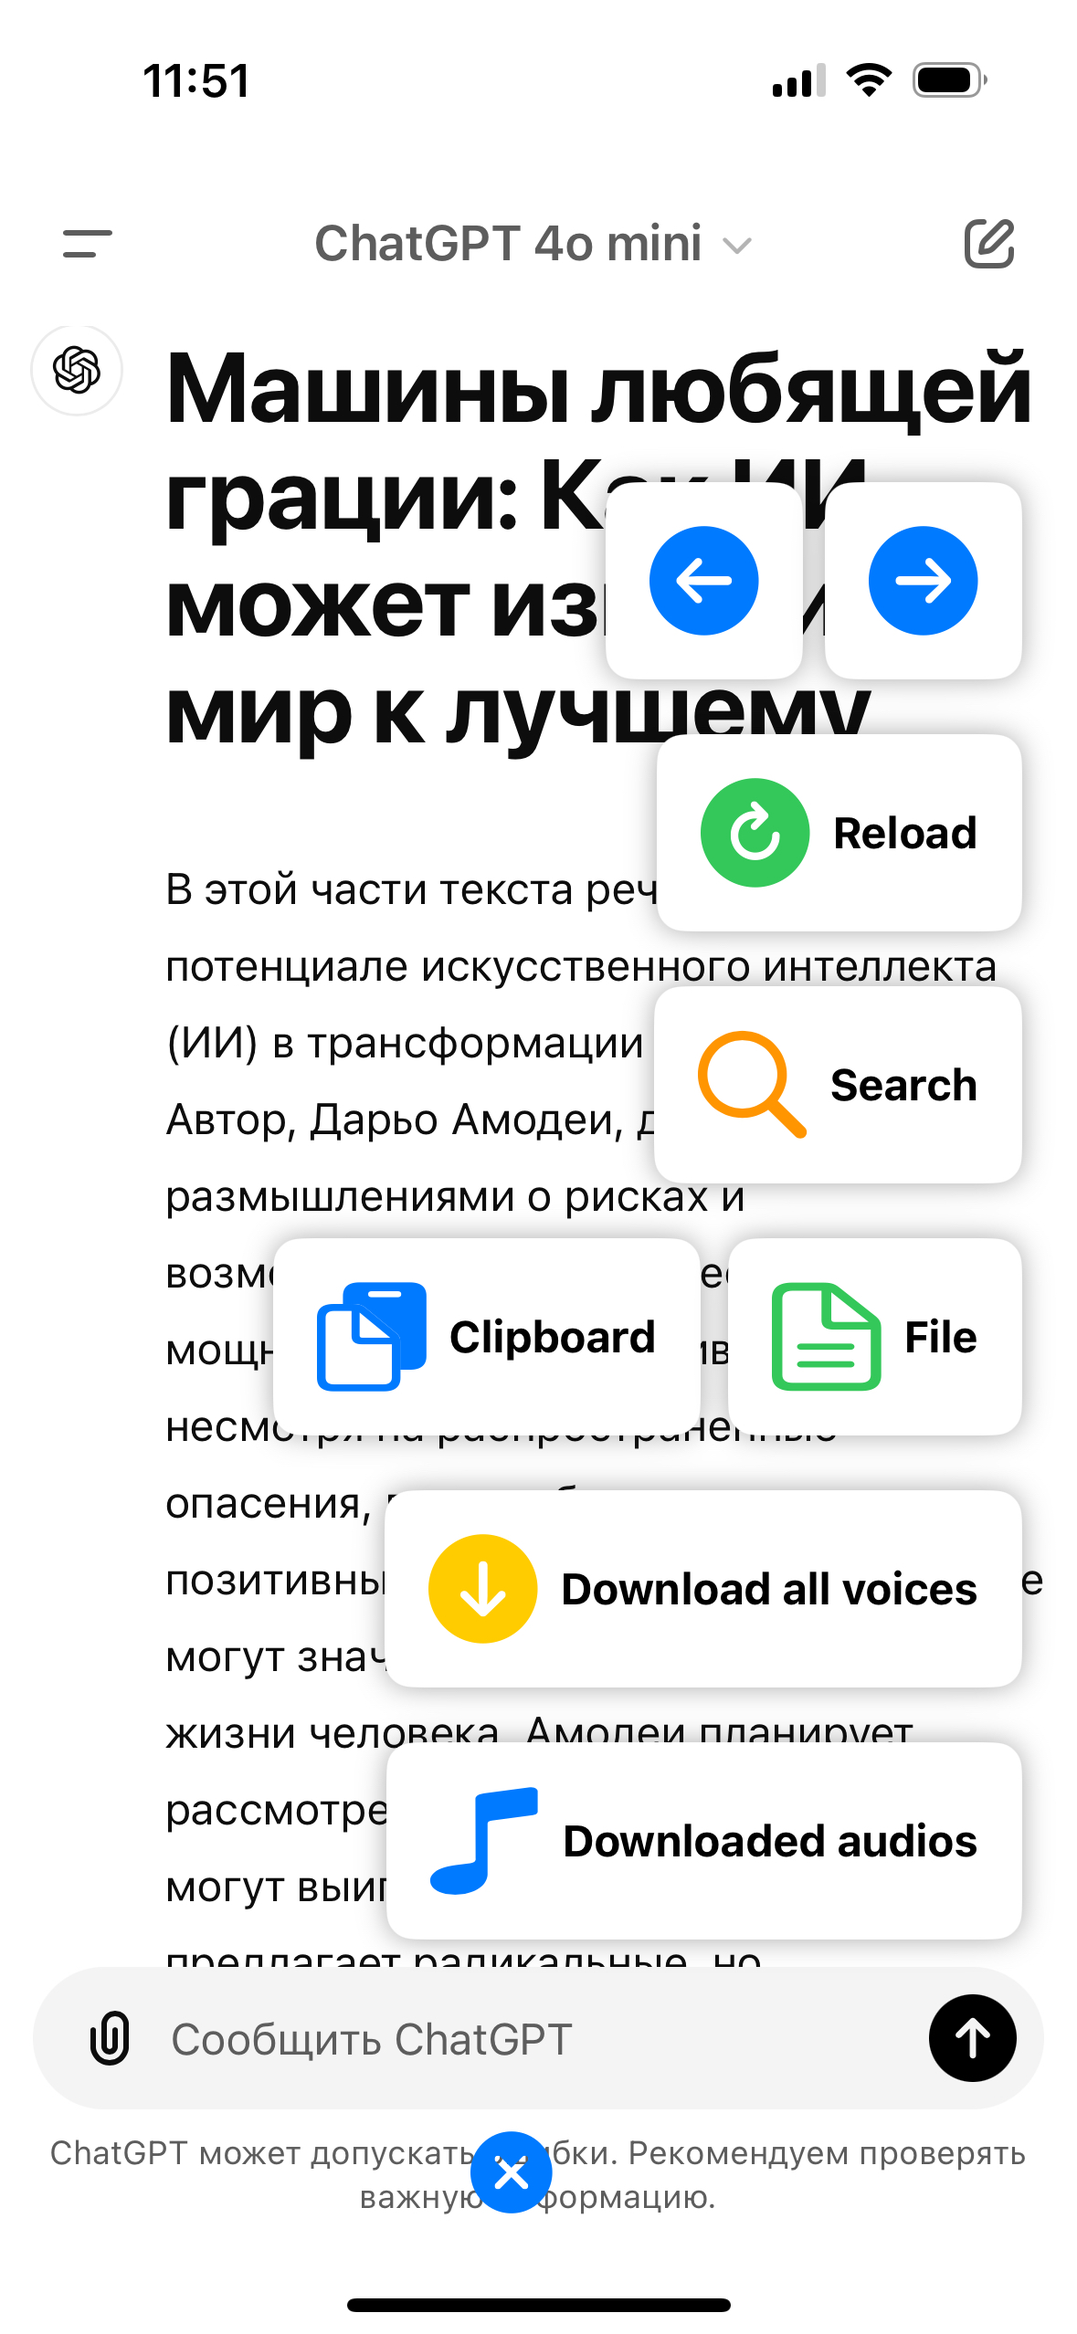
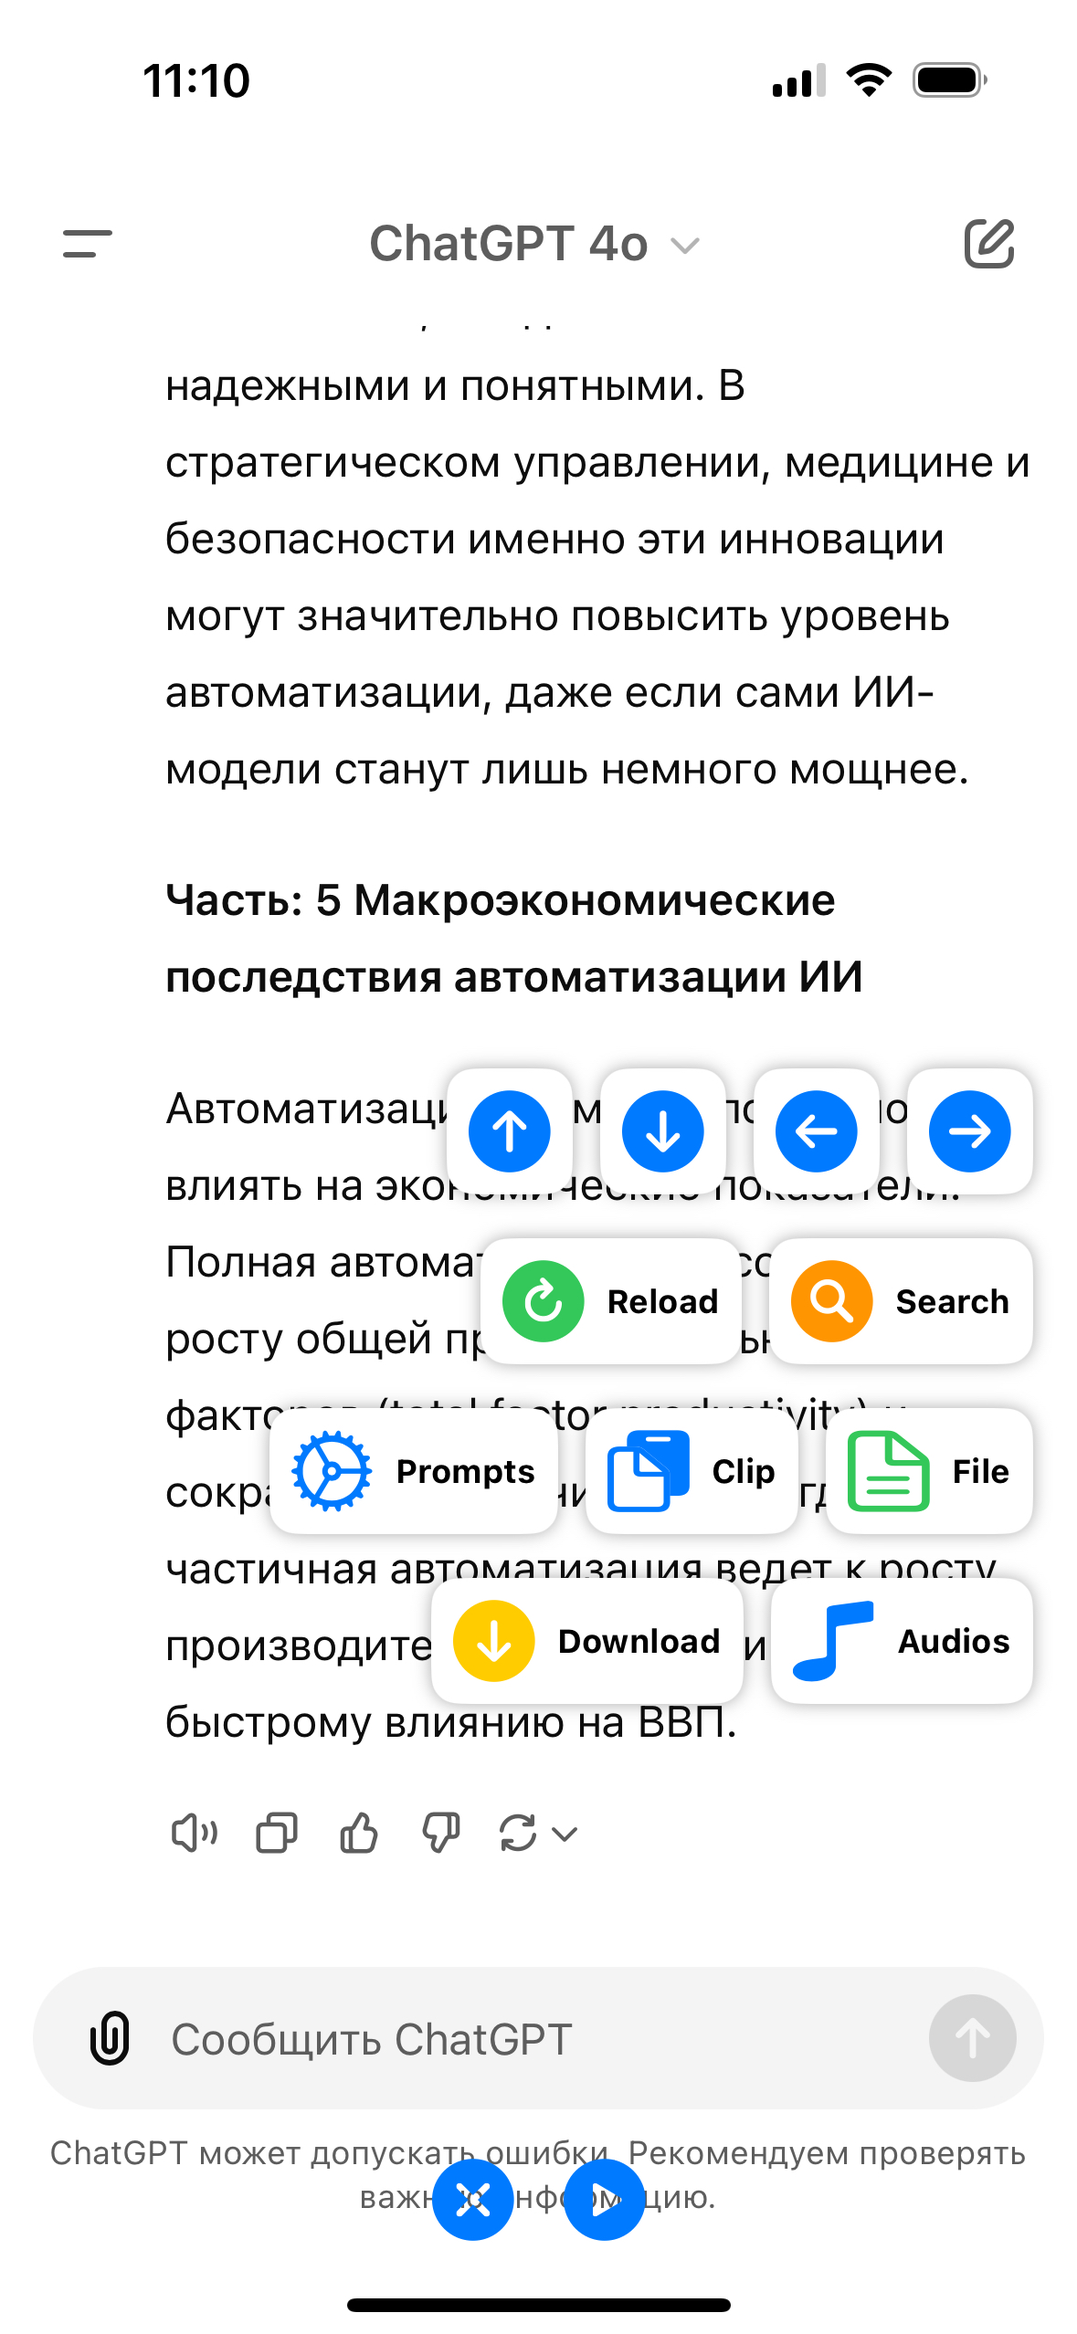
Updates control button panel interface on Main View
- Redesigned the control button panel interface to enhance user convenience.
- Reduced button sizes and reorganized layout for a more compact arrangement, optimizing screen space.
- Added a play/pause button at the bottom for quick access to audio controls.
- This change enhances the user interface, making functions more accessible and intuitive, especially on mobile devices.

diff --git a/AudioFetchGPT/Views/MainContent/ControlButtonsView.swift b/AudioFetchGPT/Views/MainContent/ControlButtonsView.swift
@@ -7,232 +7,129 @@ import SwiftUI
 
 struct ControlButtonsView: View {
     @EnvironmentObject var downloadedAudios: DownloadedAudioStore
+    @EnvironmentObject var audioManager: PlaybackManager
     @Binding var isSheetPresented: Bool
     var webViewModel: ConversationWebViewModel
     @Binding var isSearchVisible: Bool
     @Binding var searchText: String
-    @State private var showMenu: Bool = false // State for showing/hiding menu
+    @State private var showMenu: Bool = false
     @State private var showDownloadConfirmation: Bool = false
     @State private var textFiles: [String] = []
     @State private var showDocumentPicker = false
     @State private var showSystemPromptPicker = false
 
     var body: some View {
-        // Floating button
         VStack {
             Spacer()
-
-            // Show all buttons with action descriptions if menu is open
+            
+            // Panel with menu buttons, if showMenu == true
             if showMenu {
                 HStack {
                     Spacer()
-
-                    VStack(alignment: .trailing, spacing: 20) {
-                        // Navigation buttons (Previous/Next) in one line without text
-                        HStack {
-                            Button(action: {
-                                webViewModel.scrollToTopScreen()
-                            }) {
-                                HStack {
-                                    Image(systemName: "arrow.up.circle.fill")
-                                        .resizable()
-                                        .frame(width: 40, height: 40)
-                                        .foregroundColor(.blue)
-                                }
-                                .padding()
-                                .background(RoundedRectangle(cornerRadius: 10).fill(Color(.systemBackground)).shadow(radius: 5))
-                            }
-
-                            Button(action: {
-                                webViewModel.scrollToBottomScreen()
-                            }) {
-                                HStack {
-                                    Image(systemName: "arrow.down.circle.fill")
-                                        .resizable()
-                                        .frame(width: 40, height: 40)
-                                        .foregroundColor(.blue)
-                                }
-                                .padding()
-                                .background(RoundedRectangle(cornerRadius: 10).fill(Color(.systemBackground)).shadow(radius: 5))
-                            }
-
-                            Button(action: {
-                                webViewModel.scrollToPreviousReadAloudElement()
-                            }) {
-                                HStack {
-                                    Image(systemName: "arrow.left.circle.fill")
-                                        .resizable()
-                                        .frame(width: 40, height: 40)
-                                        .foregroundColor(.blue)
-                                }
-                                .padding()
-                                .background(RoundedRectangle(cornerRadius: 10).fill(Color(.systemBackground)).shadow(radius: 5))
-                            }
-
-                            Button(action: {
-                                webViewModel.scrollToNextReadAloudElement()
-                            }) {
-                                HStack {
-                                    Image(systemName: "arrow.right.circle.fill")
-                                        .resizable()
-                                        .frame(width: 40, height: 40)
-                                        .foregroundColor(.blue)
-                                }
-                                .padding()
-                                .background(RoundedRectangle(cornerRadius: 10).fill(Color(.systemBackground)).shadow(radius: 5))
-                            }
-                        }
-
-                        // Page management buttons (Reload/Search)
-                        Button(action: {
-                            webViewModel.reload()
-                        }) {
-                            HStack {
-                                Image(systemName: "arrow.clockwise.circle.fill")
-                                    .resizable()
-                                    .frame(width: 40, height: 40)
-                                    .foregroundColor(.green)
-                                Text("Reload")
-                                    .foregroundColor(.primary)
-                                    .font(.system(size: 16, weight: .bold))
-                            }
-                            .padding()
-                            .background(RoundedRectangle(cornerRadius: 10).fill(Color(.systemBackground)).shadow(radius: 5))
-                        }
-
-                        Button(action: {
-                            isSearchVisible.toggle()
-                            if !isSearchVisible {
-                                searchText = ""
-                            }
-                        }) {
-                            HStack {
-                                Image(systemName: isSearchVisible ? "magnifyingglass.circle.fill" : "magnifyingglass")
-                                    .resizable()
-                                    .frame(width: 40, height: 40)
-                                    .foregroundColor(.orange)
-                                Text("Search")
-                                    .foregroundColor(.primary)
-                                    .font(.system(size: 16, weight: .bold))
-                            }
-                            .padding()
-                            .background(RoundedRectangle(cornerRadius: 10).fill(Color(.systemBackground)).shadow(radius: 5))
-                        }
-
+                    
+                    VStack(alignment: .trailing, spacing: 16) {
+                        // Navigation group (up, down, left, right)
                         HStack(spacing: 10) {
-                            Button(action: {
+                            ControlButtonView(icon: "arrow.up.circle.fill", action: {
+                                webViewModel.scrollToTopScreen()
+                            })
+                            ControlButtonView(icon: "arrow.down.circle.fill", action: {
+                                webViewModel.scrollToBottomScreen()
+                            })
+                            ControlButtonView(icon: "arrow.left.circle.fill", action: {
+                                webViewModel.scrollToPreviousReadAloudElement()
+                            })
+                            ControlButtonView(icon: "arrow.right.circle.fill", action: {
+                                webViewModel.scrollToNextReadAloudElement()
+                            })
+                        }
+                        
+                        // Page management group (refresh and search)
+                        HStack(spacing: 10) {
+                            ControlButtonView(icon: "arrow.clockwise.circle.fill", color: .green, label: "Reload", action: {
+                                webViewModel.reload()
+                            })
+                            ControlButtonView(icon: "magnifyingglass.circle.fill", color: .orange, label: "Search", action: {
+                                isSearchVisible.toggle()
+                                if !isSearchVisible { searchText = "" }
+                            })
+                        }
+                        
+                        // Additional buttons group (System Prompt, Clipboard, File)
+                        HStack(spacing: 10) {
+                            ControlButtonView(icon: "gear", color: .blue, label: "Prompts", action: {
                                 showSystemPromptPicker = true
-                            }) {
-                                HStack {
-                                    Image(systemName: "gear")
-                                        .resizable()
-                                        .frame(width: 40, height: 40)
-                                        .foregroundColor(.blue)
-                                }
-                                .padding()
-                                .background(RoundedRectangle(cornerRadius: 10).fill(Color(.systemBackground)).shadow(radius: 5))
-                            }
+                            })
                             
-                            // Кнопка для отправки из буфера обмена
-                            Button(action: {
+                            ControlButtonView(icon: "doc.on.clipboard", color: .blue, label: "Clip", action: {
                                 if let clipboardText = UIPasteboard.general.string {
                                     webViewModel.sayChatGPT("\(webViewModel.systemPrompt)\(clipboardText)")
                                 }
-                            }) {
-                                HStack {
-                                    Image(systemName: "doc.on.clipboard")
-                                        .resizable()
-                                        .frame(width: 40, height: 40)
-                                        .foregroundColor(.blue)
-                                    Text("Clip")
-                                        .foregroundColor(.primary)
-                                        .font(.system(size: 16, weight: .bold))
-                                }
-                                .padding()
-                                .background(RoundedRectangle(cornerRadius: 10).fill(Color(.systemBackground)).shadow(radius: 5))
-                            }
-
-                            // Кнопка для отправки из файла
-                            Button(action: {
+                            })
+                            
+                            ControlButtonView(icon: "doc.text", color: .green, label: "File", action: {
                                 showDocumentPicker = true
-                            }) {
-                                HStack {
-                                    Image(systemName: "doc.text")
-                                        .resizable()
-                                        .frame(width: 40, height: 40)
-                                        .foregroundColor(.green)
-                                    Text("File")
-                                        .foregroundColor(.primary)
-                                        .font(.system(size: 16, weight: .bold))
-                                }
-                                .padding()
-                                .background(RoundedRectangle(cornerRadius: 10).fill(Color(.systemBackground)).shadow(radius: 5))
-                            }
+                            })
                         }
-
-                        // Media-related buttons (Download/Show audios)
-                        Button(action: {
-                            showDownloadConfirmation = true
-                        }) {
-                            HStack {
-                                Image(systemName: "arrow.down.circle.fill")
-                                    .resizable()
-                                    .frame(width: 40, height: 40)
-                                    .foregroundColor(.yellow)
-                                Text("Download all voices")
-                                    .foregroundColor(.primary)
-                                    .font(.system(size: 16, weight: .bold))
-                            }
-                            .padding()
-                            .background(RoundedRectangle(cornerRadius: 10).fill(Color(.systemBackground)).shadow(radius: 5))
-                        }
-                        .alert(isPresented: $showDownloadConfirmation) {
-                            Alert(
-                                title: Text("Confirm Download"),
-                                message: Text("Are you sure you want to download all voice messages? This may take some time."),
-                                primaryButton: .default(Text("Yes"), action: {
-                                    if let converenceID = webViewModel.getCurrentConversationId() {
-                                        let downloadedMessageIDs = downloadedAudios.getDownloadedMessageIds(for: converenceID)
-                                        webViewModel.clickAllVoicePlayTurnActionButtons(downloadedMessageIDs: downloadedMessageIDs)
-                                    }
-                                }),
-                                secondaryButton: .cancel()
-                            )
-                        }
-
-                        Button(action: {
-                            isSheetPresented = true
-                        }) {
-                            HStack {
-                                Image(systemName: "music.note")
-                                    .resizable()
-                                    .frame(width: 40, height: 40)
-                                    .foregroundColor(.blue)
-                                Text("Downloaded audios")
-                                    .foregroundColor(.primary)
-                                    .font(.system(size: 16, weight: .bold))
-                            }
-                            .padding()
-                            .background(RoundedRectangle(cornerRadius: 10).fill(Color(.systemBackground)).shadow(radius: 5))
+                        
+                        // Media control group
+                        HStack(spacing: 10) {
+                            ControlButtonView(icon: "arrow.down.circle.fill", color: .yellow, label: "Download", action: {
+                                showDownloadConfirmation = true
+                            })
+                            ControlButtonView(icon: "music.note", color: .blue, label: "Audios", action: {
+                                isSheetPresented = true
+                            })
                         }
                     }
+                    .padding()
                 }
-                .transition(.move(edge: .trailing)) // Adding animation
+                .transition(.asymmetric(insertion: .move(edge: .trailing).combined(with: .opacity), removal: .opacity))
             }
 
-            Spacer().frame(height: 70)
-
-            // Floating button to show/hide menu
-            Button(action: {
-                withAnimation {
-                    showMenu.toggle()
+            Spacer().frame(height: 150)
+            
+            // Bottom panel with menu and playback buttons
+            HStack {
+                Button(action: {
+                    withAnimation { showMenu.toggle() }
+                }) {
+                    Image(systemName: showMenu ? "xmark.circle.fill" : "line.horizontal.3.circle.fill")
+                        .resizable()
+                        .frame(width: 30, height: 30)
+                        .foregroundColor(.blue)
                 }
-            }) {
-                Image(systemName: showMenu ? "xmark.circle.fill" : "plus.circle.fill")
-                    .resizable()
-                    .frame(width: 30, height: 30)
-                    .foregroundColor(.blue)
+                .padding(.trailing, 10)
+                
+                
+                Button(action: {
+                    if audioManager.isPlaying {
+                        audioManager.pauseAudio()
+                    } else {
+                        if let currentAudio = audioManager.currentAudio {
+                            audioManager.playAudio(for: currentAudio)
+                        }
+                    }
+                }) {
+                    Image(systemName: audioManager.isPlaying ? "pause.circle.fill" : "play.circle.fill")
+                        .resizable()
+                        .frame(width: 30, height: 30)
+                        .foregroundColor(.blue)
+                }
             }
+        }
+        .alert(isPresented: $showDownloadConfirmation) {
+            Alert(
+                title: Text("Confirm Download"),
+                message: Text("Are you sure you want to download all voice messages?"),
+                primaryButton: .default(Text("Yes"), action: {
+                    if let conversationID = webViewModel.getCurrentConversationId() {
+                        let downloadedMessageIDs = downloadedAudios.getDownloadedMessageIds(for: conversationID)
+                        webViewModel.clickAllVoicePlayTurnActionButtons(downloadedMessageIDs: downloadedMessageIDs)
+                    }
+                }),
+                secondaryButton: .cancel()
+            )
         }
         .sheet(isPresented: $showDocumentPicker) {
             DocumentPicker(textFiles: $textFiles)
@@ -240,8 +137,6 @@ struct ControlButtonsView: View {
         .sheet(isPresented: $showSystemPromptPicker) {
             SystemPromptPicker(showSystemPromptPicker: $showSystemPromptPicker, conversationWebViewModel: webViewModel)
         }
-        .padding(.bottom, 10) // Position the floating button at the bottom of the screen
-        .padding(.trailing, 20)
         .onChange(of: textFiles) { _, newValue in
             if let value = newValue.first {
                 webViewModel.sayChatGPT("\(webViewModel.systemPrompt)\(value)")

diff --git a/AudioFetchGPT/Views/MainContent/ControlButtonView.swift b/AudioFetchGPT/Views/MainContent/ControlButtonView.swift
@@ -1,0 +1,34 @@
+//
+//  ControlButtonView.swift
+//  AudioFetchGPT
+//
+//  Created by Viktor Kushnerov on 30.10.24.
+//
+
+
+import SwiftUI
+
+struct ControlButtonView: View {
+    let icon: String
+    var color: Color = .blue
+    var label: String? = nil
+    let action: () -> Void
+
+    var body: some View {
+        Button(action: action) {
+            HStack {
+                Image(systemName: icon)
+                    .resizable()
+                    .frame(width: 30, height: 30)
+                    .foregroundColor(color)
+                if let label = label {
+                    Text(label)
+                        .font(.system(size: 12, weight: .bold))
+                        .foregroundColor(.primary)
+                }
+            }
+            .padding(8)
+            .background(RoundedRectangle(cornerRadius: 10).fill(Color(.systemBackground)).shadow(radius: 3))
+        }
+    }
+}
